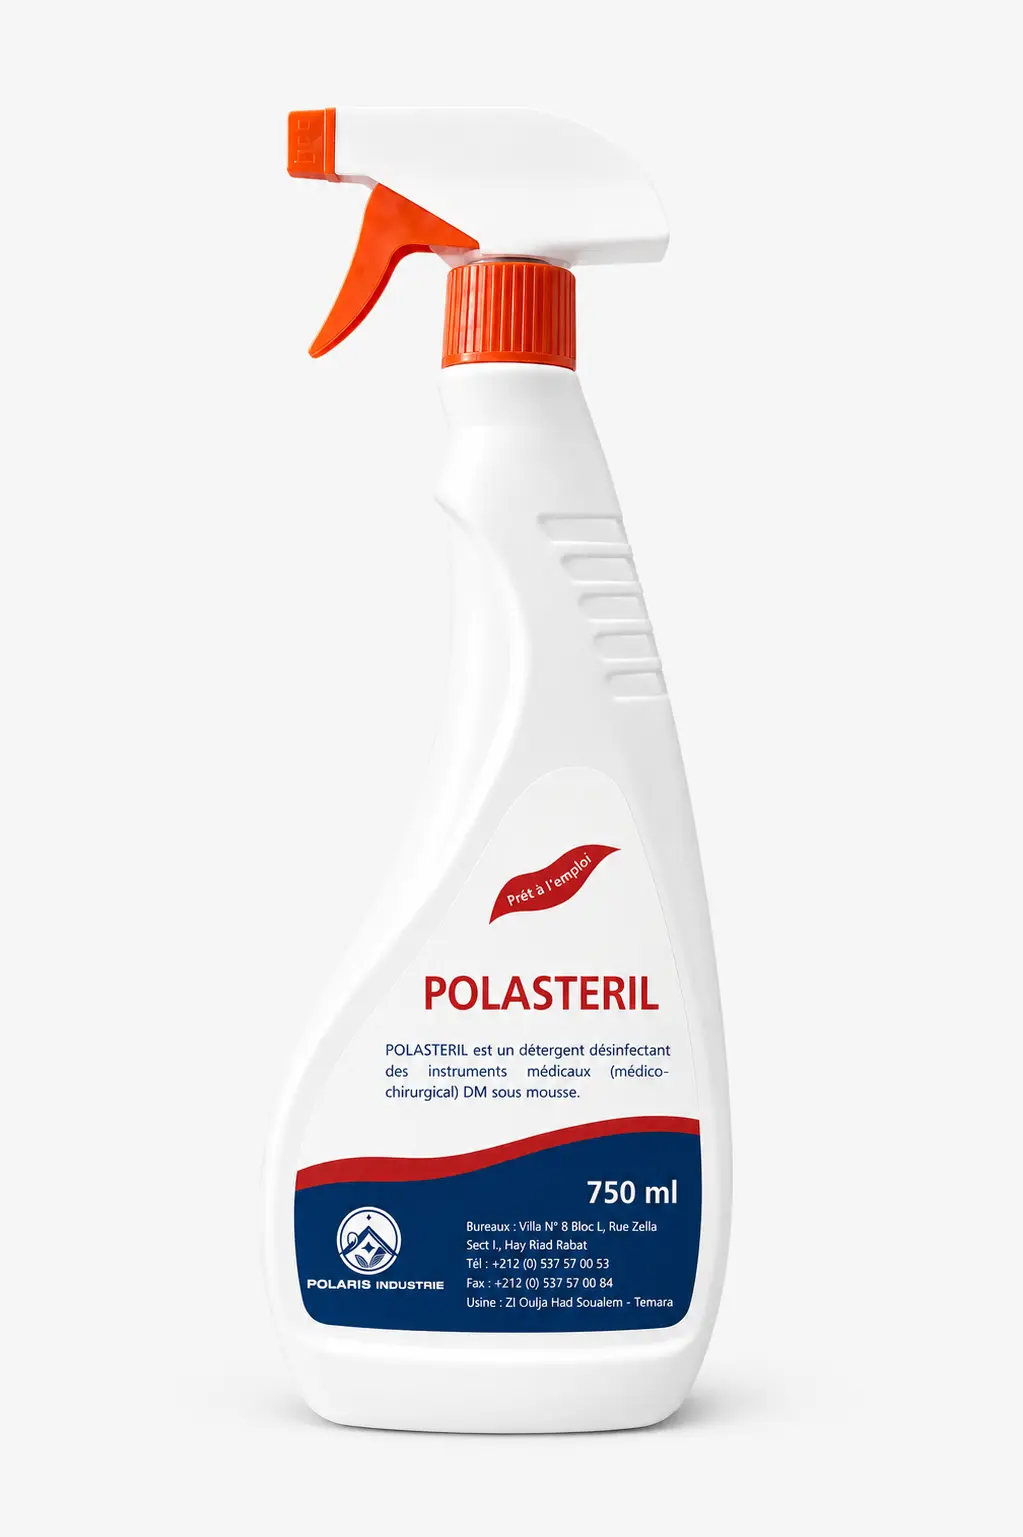
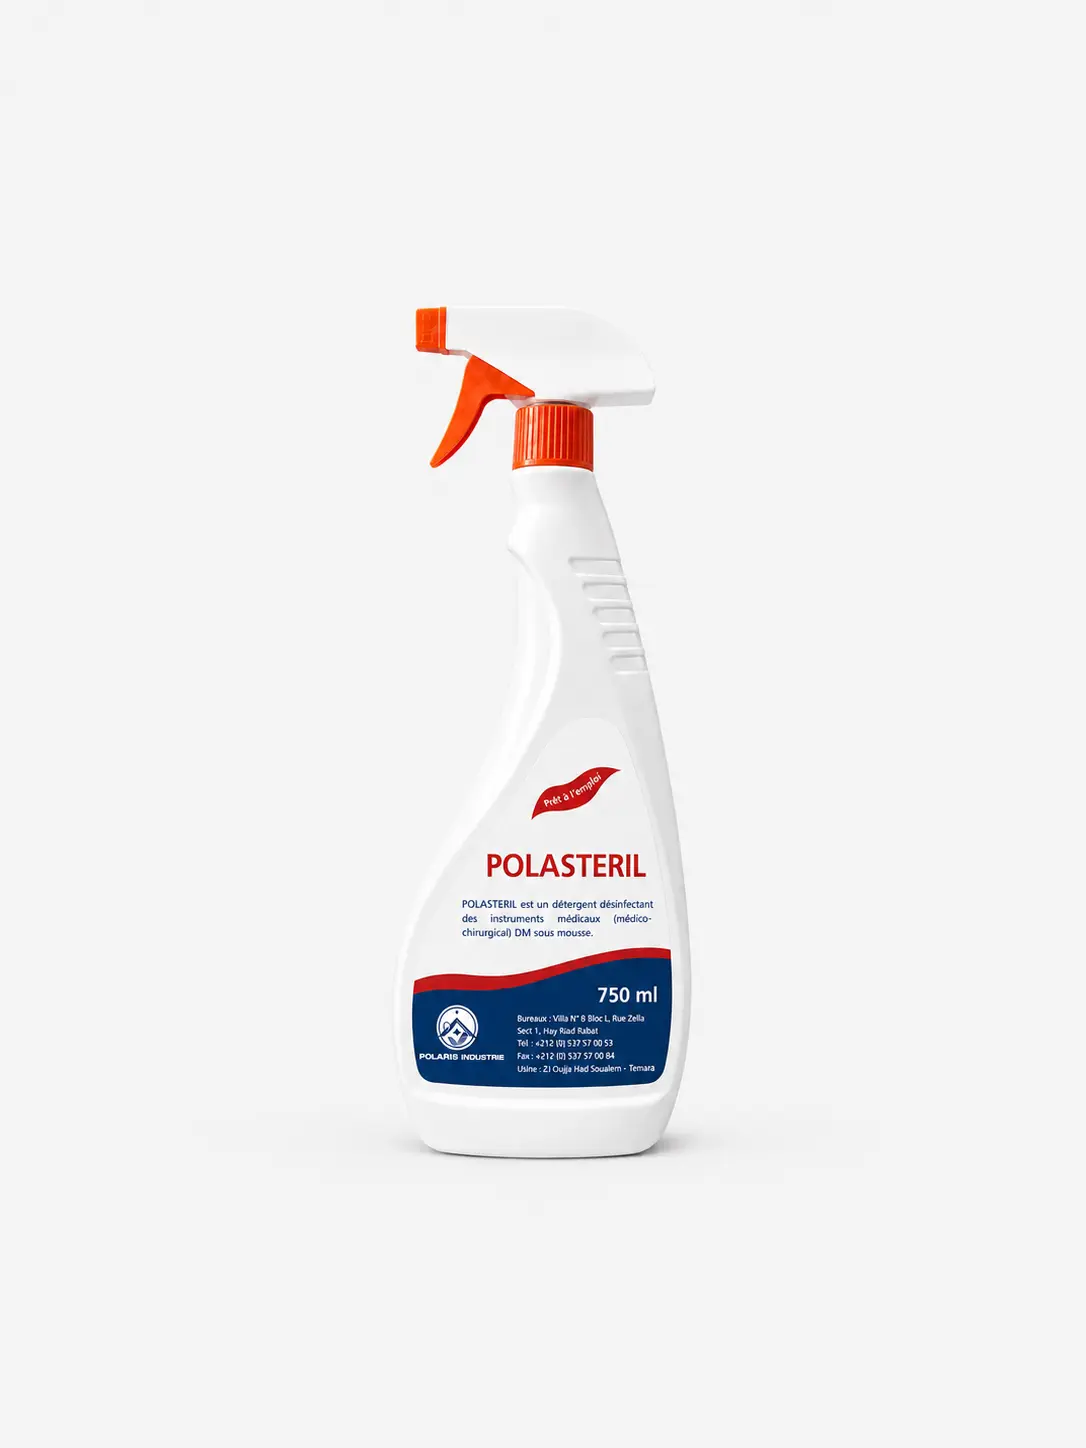
add images and fixe badge in reltaed product+ add some product

diff --git a/data/product/product.ts b/data/product/product.ts
@@ -14,10 +14,13 @@ import {
   HandCoins,
   HandHelping,
   SprayCan,
-  Utensils,
   Sparkles,
   Shield,
   ShieldCheck,
+  Layers,
+  Zap,
+  Hand,
+  HeartPulse,
 } from "lucide-react"
 
 // ─── Types ────────────────────────────────────────────────────────────────────
@@ -78,28 +81,6 @@ export const products: Product[] = [
       { icon: UtensilsCrossed, label: "Restauration" },
     ],
   },
-  {
-    id: "home-2",
-    slug: "liquide-vaisselle-concentre",
-    name: "Liquide Vaisselle Concentré",
-    shortDescription: "Formule ultra-dégraissante douce pour les mains avec une agréable odeur de citron.",
-    image: "/images/services/livraison.webp",
-    gammeSlug: "home",
-    tags: ["Dégraissant", "Formule douce", "Vaisselle"],
-    formats: ["500ml", "1L", "5L"],
-    surface: ["Vaisselle", "Couverts", "Ustensiles de cuisine"],
-  },
-  {
-    id: "home-3",
-    slug: "nettoyant-sols-brillance",
-    name: "Nettoyant Sols Brillance",
-    shortDescription: "Idéal pour le carrelage, le marbre et les parquets. Laisse un parfum frais longue durée.",
-    image: "/images/services/livraison.webp",
-    gammeSlug: "home",
-    tags: ["Brillance", "Parfumé", "Tous sols"],
-    formats: ["1L", "5L"],
-    surface: ["Carrelages", "Marbres", "Parquets", "Sols plastiques"],
-  },
 
   // ─── Gamme Médical ──────────────────────────────────────────────────────────
   {
@@ -108,7 +89,7 @@ export const products: Product[] = [
     name: "Megasept SDC",
     shortDescription: "Savon liquide à base de surfactifs amphotères pour lavage simple des mains.",
     fullDescription: "Megasept SDC est un savon liquide professionnel destiné au lavage simple des mains eu milieu hospitalier, médical, paramédical, laboratoire, collectivité et industrie.\nSa formule à base de Cocamidopropyl Betaine, surfactif amphotére doux, associée au Sodium Lauret Sulfate, assure un nettoyage efficace, une mousse agréable et un rinçage facile, tout en respectant la peau lors des utilisation fréquentes.",
-    image: "/images/products/Megasept-sdc.webp",
+    image: "/images/products/Megasept-sdc-500mL.webp",
     gammeSlug: "medical",
     tags: ["Non-parfumé", "Usage fréquent", "Main sensible", "Usage professionnel"],
     formats: ["500ml", "5L"],
@@ -133,7 +114,7 @@ export const products: Product[] = [
     name: "Megasept-Sa",
     shortDescription: "Savon antiseptique à large spectre à base de dérivé biguanide en solution à action bactéricide, virucide et fongicide.",
     fullDescription: "MEGASEPT SA et un savon antiseptique hydrosoluble pour le traitement hygiénique et chirurgical des main et avant-bras par lavage en milieu hospitalier, médical, paramédical, laboratoire et agroalimentaire. \nSa formule à base de dérivé biguanide maintient l'hydratation de la peau et évite l'élimanation des acides gras constitutifs.Solution moussante à large spectre.",
-    image: "/images/products/Megasept-sa.webp",
+    image: "/images/products/Megasept-sa-500mL.webp",
     gammeSlug: "medical",
     tags: ["Usage fréquent", "Usage professionnel", "Non parfumé", "Sans colorant"],
     formats: ["750ml", "5L"],
@@ -156,11 +137,35 @@ export const products: Product[] = [
 
   {
     id: "med-3",
+    slug: "Solution-Hydroalcoolique",
+    name: "Solution Hydro-Alcoolique",
+    shortDescription: "Solution hydro-alcoolique pour l'hygiène des mains, sans rinçage et prête à l'emploi.",
+    fullDescription: "Solution hydro-alcoolique nettoyante et désinfectante, prête à l'emploi pour l'hygiène des mains sans rinçage. Recommandée par l'OMS pour l'antisepsie des mains.\
+    \nLa friction permet d'améliorer l'observance de l'hygiène des mains, avec un gain de temps et une meilleure tolérance qu'un lavage des mains.",
+    image: "/images/products/Solution-hydroalcoolique.webp",
+    gammeSlug: "medical",
+    tags: ["Hygiène des mains", "Désinfectant", "Sans rinçage"],
+    formats: ["50mL", "125mL", "500ml", "1L", "5L"],
+    surface: ["Mains"],
+    benefits: [
+      { icon: Hand, label: "HYGIÈNE DES MAINS", description: "Pour une hygiène efficace des mains.", },
+      { icon: Zap, label: "GAIN DE TEMPS", description: "Une friction rapide et pratique.", },
+      { icon: Droplet, label: "SANS RINÇAGE", description: "Prêt à l'emploi, sans lavage à l'eau.", },
+    ],
+    domaine: [
+      { icon: Hospital, label: "Hôpitaux et Cliniques", },
+      { icon: Stethoscope, label: "Cabinets Médicaux", },
+      { icon: HeartPulse, label: "Centres de Santé", },
+    ],
+  },
+
+  {
+    id: "med-4",
     slug: "Sans-Zo",
     name: "Sans-Zo",
     shortDescription: "Gel Sans-zo destiné à la désinfection de mains par frctions.",
     fullDescription: "Gel HYDROALCOOLIQUE à base d'alcool éthylique au alcool propylique ou alccol isopropylique à une concentration entre 60% et 80% ou entre 550 et 700 mg/g. \nSans odeur ni parfum, contenant un agent hydratant.A action BACTERICIDE et LEVURICIDE.",
-    image: "/images/products/Sans-Zo.webp",
+    image: "/images/products/SansZo.webp",
     gammeSlug: "medical",
     tags: ["Usage fréquent", "Usage professionnel"],
     formats: ["750ml", "5L"],
@@ -183,31 +188,27 @@ export const products: Product[] = [
   },
 
   {
-    id: "med-4",
+    id: "med-5",
     slug: "Polasteril",
     name: "Polasteril",
     shortDescription: "Désinfectant thermochimique à triple action pour générateurs de dialyse.",
     fullDescription: "Désinfectant thermochimique des générateurs de dialyse POLASTERIL est un produit de triples actions des générateurs de dialyse. Il peut jouer le rôle d'un détaratant pour éliminer le carbonate de calcium et de magnésium.",
-    image: "/images/products/Polasteril.webp",
+    image: "/images/products/Polasteril-750mL.webp",
     gammeSlug: "medical",
     tags: ["Désinfectant", "Detartant", "Nettoyant", "Usage professionnel"],
     formats: ["750ml", "5L"],
     surface: ["Surface", "Générateurs de dialyse"],
     benefits: [
-      { icon: ShieldPlus, label: "USAGE DIALYSEE", description: "Conçu pour la désinfection des générateurs de dialyse" },
-      { icon: ShieldPlus, label: "ACTION DÉTARTRANTE", description: "Élimine les dépôts de carbonate de calcium et de magnésium." },
-      { icon: ShieldPlus, label: "TRIPLE ACTION", description: "Désinfecte et élimine les dépôts minéraux." },
+      { icon: Droplet, label: "ENTRETIEN DES GÉNÉRATEURS", description: "Contribue au bon entretien des générateurs" },
+      { icon: ShieldPlus, label: "ACTION COMPLÈTE", description: "Désinfecte et détartre les équipements." },
     ],
     domaine: [
       { icon: Hospital, label: "Hôpitaux et Cliniques" },
-      { icon: FlaskConical, label: "Laboratoires" },
-      { icon: Stethoscope, label: "Cabinets Médicaux" },
-      { icon: Users, label: "Collectivités" },
     ],
   },
 
   {
-    id: "med-5",
+    id: "med-6",
     slug: "Poloxyd-2.5",
     name: "Poloxyd-2.5",
     shortDescription: "Désinfectant à froid pour générateurs d'hémodialyse et dispositifs de traitement d'eau.",
@@ -218,9 +219,9 @@ export const products: Product[] = [
     formats: ["10L", "5L"],
     surface: ["Générateurs d'hémodialyse", "Dispositifs de traitement d'eau"],
     benefits: [
-      { icon: ShieldPlus, label: "PRÊT À L'EMPLOI", description: "Solution prête à l'emploi pour une utilisation pratique." },
-      { icon: ShieldPlus, label: "ACTION DÉTARTRANTE", description: "Permet le détartrage des générateurs d'hémodialyse." },
-      { icon: ShieldPlus, label: "DÉSINFECTION", description: "Destiné à la désinfection des générateurs d'hémodialyse." },
+      { icon: Zap, label: "PRÊT À L'EMPLOI", description: "Prêt à l'emploi pour une utilisation simplifiée." },
+      { icon: Sparkles, label: "ENTRETIEN COMPLET", description: "Combine désinfection et détartrage." },
+      { icon: ShieldPlus, label: "HYGIÈNE DES ÉQUIPEMENTS", description: "Assure la désinfection des générateurs." },
     ],
     domaine: [
       { icon: Hospital, label: "Hôpitaux et Cliniques" },
@@ -230,7 +231,7 @@ export const products: Product[] = [
   },
 
   {
-    id: "med-6",
+    id: "med-7",
     slug: "Paragen-2",
     name: "Paragen-2%",
     shortDescription: "Nettoyant et désinfectant pour surfaces et équipements en milieu médical et agro-alimentaire.",
@@ -239,20 +240,15 @@ export const products: Product[] = [
     gammeSlug: "medical",
     tags: ["Nettoyant", "Désinfectant", "Usage professionnel"],
     formats: ["750ml", "5L"],
-    surface: [
-      "Surfaces",
-      "Équipements",
-      "Générateurs d'hémodialyse"
-    ],
+    surface: ["Surfaces", "Équipements", "Générateurs d'hémodialyse"],
     benefits: [
-      { icon: ShieldPlus, label: "NETTOYANT & DÉSINFECTANT", description: "Nettoie et désinfecte les surfaces et les équipements." },
-      { icon: Hospital, label: "USAGE MÉDICAL", description: "Adapté aux hôpitaux, cliniques et générateurs d'hémodialyse." },
-      { icon: Factory, label: "AGRO-ALIMENTAIRE", description: "Utilisable pour la désinfection des surfaces et équipements." },
+      { icon: Sparkles, label: "NETTOYAGE EFFICACE", description: "Nettoie les surfaces et les équipements" },
+      { icon: ShieldPlus, label: "HYGIÈNE RENFORCÉE", description: "Désinfecte les surfaces et équipements." },
+      { icon: Layers, label: "USAGE POLYVALENT", description: "Adapté aux secteurs médical et alimentaire." },
     ],
 
     domaine: [
       { icon: Hospital, label: "Hôpitaux et Cliniques" },
-      { icon: FlaskConical, label: "Laboratoires" },
       { icon: Factory, label: "Industrie Agro-alimentaire" },
     ],
   },
@@ -266,7 +262,7 @@ export const products: Product[] = [
     shortDescription: "Désinfection rapide de l'eau de piscine et traitement choc contre les algues.",
     fullDescription:
       "Le Chlore Choc en Pastilles Polaris est un traitement intensif pour la désinfection rapide de l'eau de piscine. Sa formule concentrée élimine efficacement les bactéries, virus et algues en quelques heures. Idéal pour les remises en service, les fortes chaleurs ou les situations de contamination.",
-    image: "/images/products/chlore-choc.webp",
+    image: "/images/products/Chlore-Choc.webp",
     gammeSlug: "aqua",
     tags: ["Action rapide", "Anti-algues", "Usage piscine"],
     formats: ["1kg", "5kg", "25kg"],
@@ -291,7 +287,7 @@ export const products: Product[] = [
     shortDescription: "Détergent et désinfectant alcalin chloré pour l'industrie agro-alimentaire.",
     fullDescription: "Détergent et désinfectant alcalin chloré spécialement formulé pour le nettoyage et la désinfection avec des équipements à projection de mousse sure les surfaces ouvertes et les équipements de l'industrie agro-alimentaire en générale et particulièrement de l'industrie des viandes et des produits cariés.\
      \nEt pour éviter la formation de film sous lequel peuvent se nicher les bactéries, on utilise le POLIFAOM-AC par alternance avec POLIFAM-CL.",
-    image: "/images/products/polifoam-cl.webp",
+    image: "/images/products/Polifoam-cl.webp",
     gammeSlug: "agroalimentaire",
     tags: ["Détergent", "Désinfectant", "Alcalin chloré", "Agro-alimentaire",],
     formats: ["25kg"],
@@ -313,7 +309,7 @@ export const products: Product[] = [
     shortDescription: "Détergent totalement soluble dans l'eau, avec une excellente rinçabilité.",
     fullDescription: "Totalement soluble dans l'eau et insensible à sa dureté. Il offre une excellente rinçabilité ainsi qu'un bon pouvoir peptisant et mouillant.\
     \nIl ne réagit pas avec le CO₂, ce qui permet d'éviter les risques de chute de pression liés à la neutralisation.",
-    image: "/images/products/polinet.webp",
+    image: "/images/products/Polinet.webp",
     gammeSlug: "agroalimentaire",
     tags: ["Détergent", "Soluble dans l'eau", "Rinçage facile", "Pouvoir mouillant",],
     formats: ["25kg"],
@@ -335,7 +331,7 @@ export const products: Product[] = [
     shortDescription: "Détergent et désinfectant chloré puissant, adapté aux eaux de très forte dureté.",
     fullDescription: "Spécialement indiqué pour les eaux de très forte dureté. Il évite la formation de pierre de lait et de Bierstein. Totalement exempt de formation de mousse, il possède un important pouvoir détergent et un chlore très stable.\
      \nIl offre un fort pouvoir désinfectant et une action bactéricide à large spectre. Non corrosif vis-à-vis de l'inox, du caoutchouc et des matières plastiques. Ne convient pas à l'aluminium. Le produit, concentré ou en solution d'emploi, ne doit pas être neutralisé ni mis en milieu acide.",
-    image: "/images/products/polixol.webp",
+    image: "/images/products/Polixol.webp",
     gammeSlug: "agroalimentaire",
     tags: ["Détergent", "Désinfectant", "Chloré", "Bactéricide", "Eaux très dures",],
     formats: ["25kg"],

diff --git a/components/shared/related-product.tsx b/components/shared/related-product.tsx
@@ -69,7 +69,7 @@ export function RelatedProducts({ currentSlug, gammeSlug }: RelatedProductsProps
                         variant="outline"
                         className="rounded-full bg-background/90 text-[11px] font-semibold backdrop-blur-sm"
                       >
-                        {product.formats[0]}
+                        {product.formats.slice(0, 2).join(" / ")}
                       </Badge>
                     </div>
                   </div>
